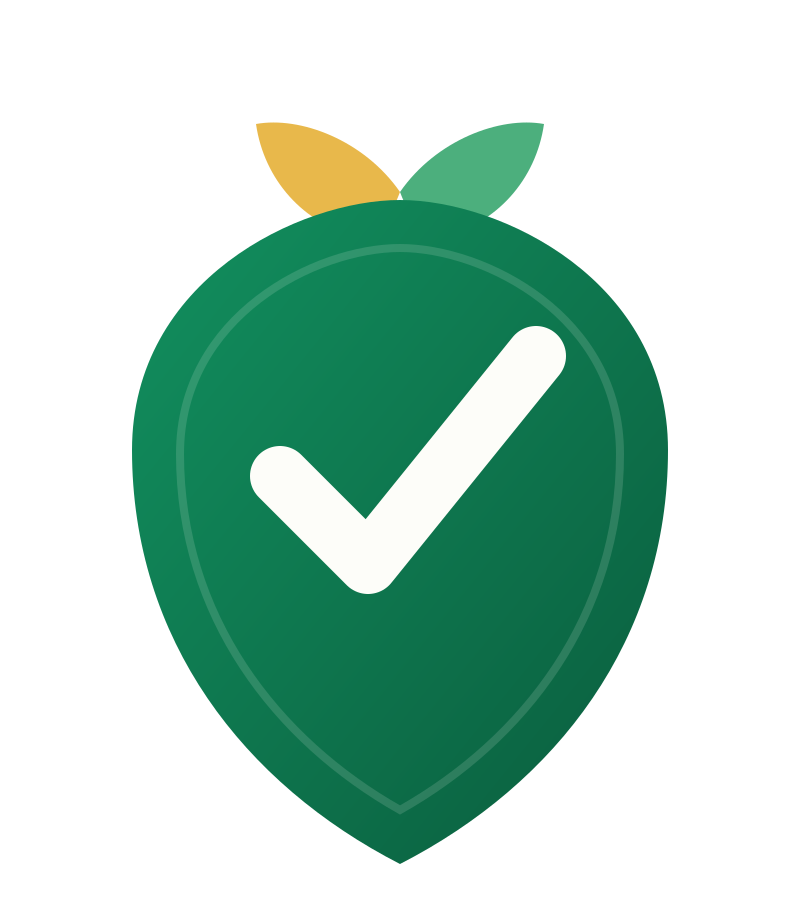
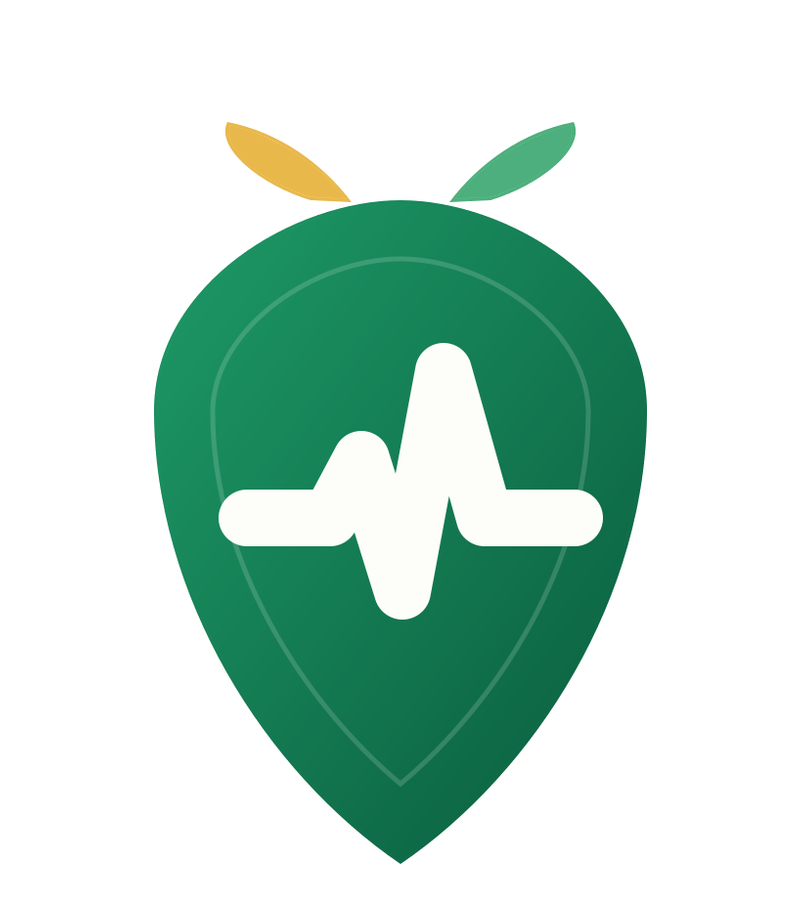
Replace the Guard Leaf checkmark with the pulse line on the website and brand assets
Google Play rejected the Android app on 2026-09-17 under its Impersonation
policy: the leaf-shield with a checkmark read as a "verified" badge. The
mobile icon moved to a heart-rate pulse line in 0d7be19a7, but
tarragonhealth.ng (the Play developer account's verified site) still showed
the checkmark, which undercuts the appeal.

- Both inline SVG marks (packages/ui GuardLeafMark, marketing brand-logo)
  now draw the pulse line. That covers the marketing header and footer,
  the platform and console sign-in, MFA, signup, checkout, claim and
  access-fund pages.
- Every PNG rebuilt from apps/mobile/assets/icon.png at the old canvas
  size and footprint: brand/ mark + lockup, public/brand mark + lockup
  (structured-data logo, app shell, PDFs, finance letterhead, gift card),
  favicon.ico (16/32/48/256), PWA icons 192/512/maskable, apple-touch-icon.
  Mark and lockup PNGs now have transparent backgrounds; the lockup keeps
  the old wordmark and tagline pixels unchanged.
- Mobile in-app white mark (lock screen, privacy cover) and the splash
  also still had the checkmark; replaced too. The splash is native and
  only changes with a new store build.
- BRAND_GUIDE, MARKETING_SITE_SPEC and CLAUDE.md describe the pulse-line
  vein and say never to bring a checkmark back.
- Regression test: neither SVG mark may contain the old checkmark path.

OG share cards draw a "T" tile, not the mark; emails carry no logo.

diff --git a/apps/web/src/app/(marketing)/_components/brand-logo.tsx b/apps/web/src/app/(marketing)/_components/brand-logo.tsx
@@ -1,12 +1,12 @@
 import { cn } from "@/lib/utils";
 
-/** Guard Leaf mark: shield (protection) + sprout crown (prevention/growth) + checkmark vein (docs/BRAND_GUIDE.md §4). */
+/** Guard Leaf mark: shield (protection) + sprout crown (prevention/growth) + pulse-line vein (docs/BRAND_GUIDE.md §4). */
 
 type Tone = "brand" | "on-navy";
 
 export function GuardLeafMark({ className, tone = "brand" }: { className?: string; tone?: Tone }) {
   const shieldClass = tone === "on-navy" ? "fill-warm-ivory" : "fill-brand-green";
-  const checkClass = tone === "on-navy" ? "stroke-clinical-navy" : "stroke-warm-ivory";
+  const veinClass = tone === "on-navy" ? "stroke-clinical-navy" : "stroke-warm-ivory";
 
   return (
     <svg
@@ -25,11 +25,11 @@ export function GuardLeafMark({ className, tone = "brand" }: { className?: strin
         className={shieldClass}
       />
       <path
-        d="M36 65L46 75L67 50"
+        d="M31 62H40L45 55L50 71L55 45L59 62H71"
         strokeWidth="7"
         strokeLinecap="round"
         strokeLinejoin="round"
-        className={checkClass}
+        className={veinClass}
       />
     </svg>
   );

diff --git a/apps/web/src/components/brand/guard-leaf-mark-no-checkmark.test.ts b/apps/web/src/components/brand/guard-leaf-mark-no-checkmark.test.ts
@@ -1,0 +1,22 @@
+/**
+ * Google Play rejected the Android app (2026-09-17, Impersonation policy) because the Guard Leaf's shield plus checkmark read
+ * as a "verified" badge. The vein is a pulse line now, and the website is the developer account's verified site, so neither
+ * inline SVG copy of the mark may draw the checkmark again (docs/BRAND_GUIDE.md §4).
+ */
+import { readFileSync } from "node:fs";
+import { join } from "node:path";
+
+const MARKS = [
+  join(__dirname, "../../../../../packages/ui/src/components/guard-leaf-mark.tsx"),
+  join(__dirname, "../../app/(marketing)/_components/brand-logo.tsx"),
+];
+const OLD_CHECKMARK = "M36 65L46 75L67 50";
+const PULSE_LINE = "M31 62H40L45 55L50 71L55 45L59 62H71";
+
+describe("Guard Leaf mark", () => {
+  it.each(MARKS)("draws the pulse line, not the checkmark: %s", (file) => {
+    const source = readFileSync(file, "utf8");
+    expect(source).not.toContain(OLD_CHECKMARK);
+    expect(source).toContain(PULSE_LINE);
+  });
+});

diff --git a/packages/ui/src/components/guard-leaf-mark.tsx b/packages/ui/src/components/guard-leaf-mark.tsx
@@ -1,6 +1,6 @@
 import { cn } from "../utils";
 
-/** Guard Leaf mark: shield (protection) + sprout crown (prevention/growth) + checkmark vein (docs/BRAND_GUIDE.md §4). */
+/** Guard Leaf mark: shield (protection) + sprout crown (prevention/growth) + pulse-line vein (docs/BRAND_GUIDE.md §4). */
 export function GuardLeafMark({ className }: { className?: string }) {
   return (
     <svg
@@ -19,7 +19,7 @@ export function GuardLeafMark({ className }: { className?: string }) {
         className="fill-brand-green"
       />
       <path
-        d="M36 65L46 75L67 50"
+        d="M31 62H40L45 55L50 71L55 45L59 62H71"
         strokeWidth="7"
         strokeLinecap="round"
         strokeLinejoin="round"

diff --git a/apps/web/src/app/(marketing)/_components/continuity-path.tsx b/apps/web/src/app/(marketing)/_components/continuity-path.tsx
@@ -1,6 +1,6 @@
 "use client";
 
-/** Signature continuity visual, echoes Guard Leaf checkmark vein (docs/MARKETING_SITE_SPEC.md §1).
+/** Signature continuity visual, echoes the Guard Leaf pulse-line vein (docs/MARKETING_SITE_SPEC.md §1).
  * Starts at "Screening" deliberately; the loop begins before anything is
  * wrong, so healthy visitors see themselves in it (prevention-first, 2026-07-23).
  * Interactive: clicking a moment (or a slow auto-advance until someone does)

diff --git a/docs/BRAND_GUIDE.md b/docs/BRAND_GUIDE.md
@@ -37,7 +37,7 @@ Personality pillars: **Trustworthy** (we earn trust, don't claim it) · **Warm**
 **Written English: plain but educated (founder decision 2026-10-30).** "Warm" never means chatty or childlike. Write in complete, precise sentences with everyday words, the correct medical term explained once, and the reason behind each claim, as the NHS and Ada Health do. No fragments used as sentences, slogans as body copy, slang ("Mum", "BP" in prose), or internal jargon (escalate, care gap) in patient text. Full rules and before/after examples: `docs/design/COPY-VOICE.md`. Apply to every user-facing string, marketing and app, before it ships.
 
 ## 4. Logo — "Guard Leaf"
-Shield silhouette (protection, continuous monitoring) + sprout crown (two leaflets at the apex — prevention and growth) + checkmark vein (the leaf's midrib drawn as a checkmark — a completed reading, a closed care gap). Assets: `Tarragon_Health_Logo_Mark.png` (mark alone), `Tarragon_Health_Logo_Lockup.png` (mark + wordmark + tagline).
+Shield silhouette (protection, continuous monitoring) + sprout crown (two leaflets at the apex — prevention and growth) + pulse-line vein (the leaf's midrib drawn as a heart-rate pulse line: continuous monitoring, a reading taken). **Changed 2026-11-03:** the vein was a checkmark until Google Play rejected the Android app under its Impersonation policy because the shield plus checkmark read as a "verified" badge; never reintroduce a checkmark, tick or badge shape into the mark. Assets: `Tarragon_Health_Logo_Mark.png` (mark alone), `Tarragon_Health_Logo_Lockup.png` (mark + wordmark + tagline).
 
 **Wordmark:** `TarragonHealth` — single word, camel-case. "Tarragon" in Charcoal Ink, "Health" in Tarragon Green.
 
@@ -45,7 +45,7 @@ Shield silhouette (protection, continuous monitoring) + sprout crown (two leafle
 - Primary lockup (mark + wordmark + tagline) → website header, decks, letterheads, corporate proposals, app landing pages
 - Wordmark alone → where space is limited or brand is already familiar
 - Mark alone → app icon, favicon, social avatar, dashboard sidebar, watermark
-- Clear space = height of the sprout crown, on all sides. Min size: 120px (full lockup), 32px (mark alone) — checkmark vein disappears below this
+- Clear space = height of the sprout crown, on all sides. Min size: 120px (full lockup), 32px (mark alone) — pulse-line vein disappears below this
 - Backgrounds: white, Warm Ivory, Soft Sage, or Deep Navy only
 - **Never:** stretch, skew, rotate, add shadows, place over busy images, recolour the shield outside the palette (no blue, no red medical-cross styling)
 
@@ -174,7 +174,7 @@ Single master brand — **no independent sub-brands**. Product names are descrip
 | Master tagline | Care that stays with you. |
 | Descriptor (live, corrected 2026-09-03) | Health monitoring for chronic disease, prevention, and care coordination, with clinical review and escalation when closer care is needed. |
 | Campaign line | Well within reach. |
-| Logo | Guard Leaf — shield + sprout crown + checkmark vein |
+| Logo | Guard Leaf — shield + sprout crown + pulse-line vein |
 | Wordmark | TarragonHealth (camel-case, Ink + Green) |
 | Primary colour | Tarragon Green `#0E7C52` · B2B: Clinical Navy `#12324B` |
 | Fonts | Sora (headlines) · Inter (UI/body) |

diff --git a/docs/MARKETING_SITE_SPEC.md b/docs/MARKETING_SITE_SPEC.md
@@ -81,7 +81,7 @@ The brand system already exists in `docs/BRAND_GUIDE.md` (Guard Leaf) — this s
 
 **Type:** Sora (SemiBold/Bold) for headlines, Inter for body and UI chrome. Set a real type scale — don't let every heading be the same weight at different sizes.
 
-**Signature element:** the Guard Leaf checkmark-vein motif is the one bold move — as the interactive `ContinuityPath` component beneath the homepage hero (a reading → a reminder → a clinician call → a family update), not as the hero visual itself. **Corrected 2026-08-19:** the earlier version of this note called for the motif to replace "a static stock photo" as the hero. Every major healthcare platform benchmarked runs real human photography as its hero banner, and a generic gradient/blob gets read as templated rather than distinctive — see `docs/BRAND_GUIDE.md` §8. The hero is now a real photo of a real person (never a generic dashboard mockup, never decorative blur shapes behind it); the continuity thread keeps its own dedicated moment right below the hero, which is where it's actually built. Keep everything else quiet around both.
+**Signature element:** the Guard Leaf vein motif (a pulse line since 2026-11-03, formerly a checkmark) is the one bold move — as the interactive `ContinuityPath` component beneath the homepage hero (a reading → a reminder → a clinician call → a family update), not as the hero visual itself. **Corrected 2026-08-19:** the earlier version of this note called for the motif to replace "a static stock photo" as the hero. Every major healthcare platform benchmarked runs real human photography as its hero banner, and a generic gradient/blob gets read as templated rather than distinctive — see `docs/BRAND_GUIDE.md` §8. The hero is now a real photo of a real person (never a generic dashboard mockup, never decorative blur shapes behind it); the continuity thread keeps its own dedicated moment right below the hero, which is where it's actually built. Keep everything else quiet around both.
 
 **Motion:** restrained. A single orchestrated hero reveal or scroll-triggered moment beats scattered hover effects everywhere. Respect `prefers-reduced-motion`.
 

diff --git a/CLAUDE.md b/CLAUDE.md
@@ -323,7 +323,7 @@ Bluetooth clinical devices (BP cuffs, glucometers) are **built** (2026-07-13/14,
 - Comparable platforms referenced for positioning: Helium Health, Wellahealth.
 
 ## Brand (see `docs/BRAND_GUIDE.md` for full system)
-- Master tagline: **"Care that stays with you."** Wordmark: **TarragonHealth** (camel-case). Mark: **Guard Leaf** (shield + sprout crown + checkmark vein).
+- Master tagline: **"Care that stays with you."** Wordmark: **TarragonHealth** (camel-case). Mark: **Guard Leaf** (shield + sprout crown + pulse-line vein; the vein was a checkmark until Google Play rejected the app on 2026-09-17 for a "verified"-badge look, so never put a checkmark or tick back in the mark).
 - Tarragon Green `#0E7C52` (brand/primary actions), Clinical Navy `#12324B` (B2B/clinical documents). Clinical dashboard status colours (green/amber/red/blue/grey) are a **separate system** from brand colour — never confuse the two.
 - Voice: warm and personal, not a hospital PA system. No fear-based urgency, no "WARNING:", no clinical jargon in patient-facing copy.
 - **Do not use "doctor-led" as a headline/marketing claim** (retired 2026-07-18 — it reads as over-promising and unprofessional). Describe the actual clinical process instead — "clinical review and escalation", "your care team", "reviewed against care protocols" — and reference doctors concretely in process/explanation ("escalates to a doctor", "the doctors who review every case"), never as a blanket brand adjective. Don't cite a specific doctor:patient ratio in this kind of copy — see the Non-Negotiable Business Rules note above, it's under review. The operating model is unchanged (Tarragon still employs its own doctors, per `docs/CLINICAL_TRUST_MODEL_SPEC.md`); this is a public-copy/positioning rule only.
